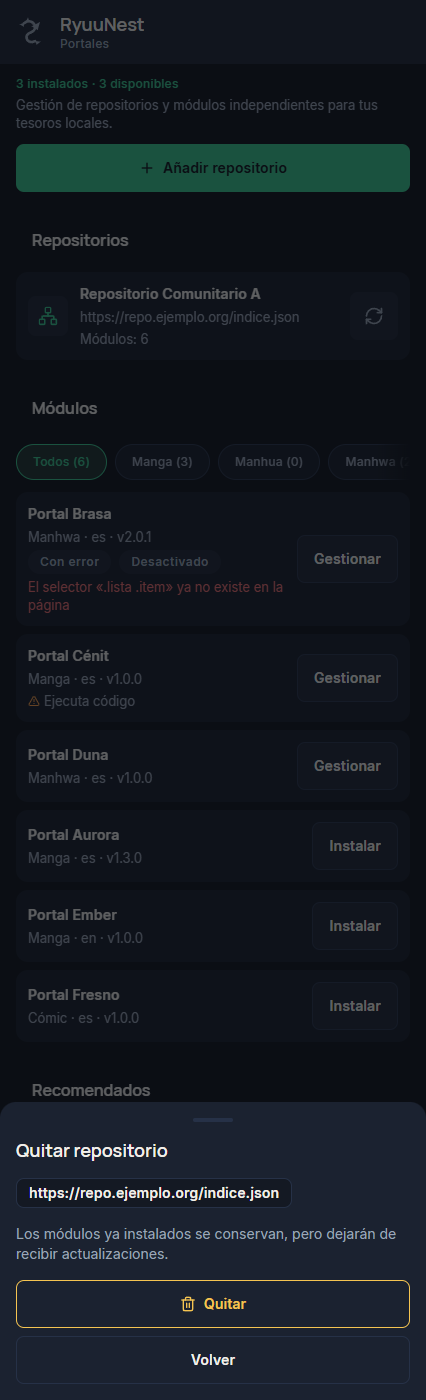
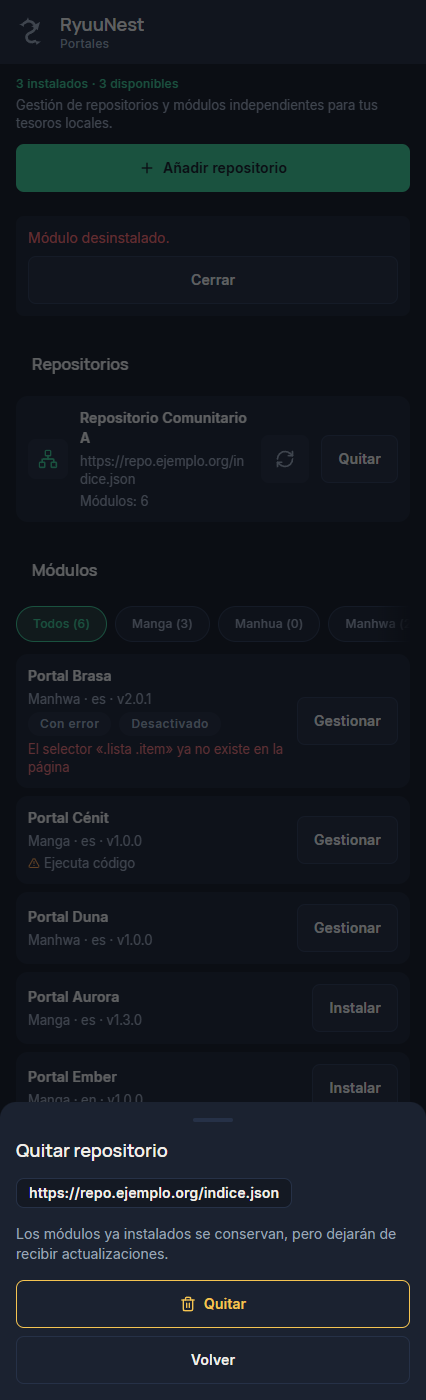
feat: «Quitar» visible en la tarjeta del repositorio y avisos de instalado/desinstalado (F42 V7, V8)
Claude-Session: https://claude.ai/code/session_01KcBhPR6TFzKDrKy9xTQwx5

diff --git a/apps/mobile/src/components/RepoCard.tsx b/apps/mobile/src/components/RepoCard.tsx
@@ -1,3 +1,4 @@
+import Button from "./Button";
 import FocusPressable from "./FocusPressable";
 import { StyleSheet, Text, View } from "react-native";
 import { dragonNightColors, spacing, typography } from "@ryuunest/ui-tokens";
@@ -9,7 +10,7 @@ import { textStyle } from "./textStyle";
 /**
  * F16 — tarjeta de repositorio (RF-3): icono, nombre, URL y botón de
  * sincronizar. Plana, sin brillos (V11). Los textos llegan por props (F10).
- * `onPress` abre la acción de quitar; sincronizar es el botón de la derecha.
+ * V7: «Quitar» es un botón visible en la tarjeta (`onRemove`); sincronizar, el icono.
  */
 
 const colors = dragonNightColors;
@@ -22,8 +23,11 @@ export interface RepoCardProps {
   syncLabel: string;
   syncing?: boolean;
   onSync?: () => void;
-  onPress?: () => void;
-  accessibilityLabel?: string;
+  /** Texto visible de quitar, p. ej. «Quitar». */
+  removeLabel?: string;
+  onRemove?: () => void;
+  /** Nombre accesible de quitar, p. ej. «Quitar repositorio». */
+  removeAccessibilityLabel?: string;
 }
 
 export default function RepoCard({
@@ -33,20 +37,14 @@ export default function RepoCard({
   syncLabel,
   syncing = false,
   onSync,
-  onPress,
-  accessibilityLabel,
+  removeLabel,
+  onRemove,
+  removeAccessibilityLabel,
 }: RepoCardProps) {
   const text = repoCardTextColors();
   return (
-    // La fila no puede ser un botón: en web anidaría el botón de sincronizar
-    // (HTML inválido). El cuerpo (icono y textos) es el botón de quitar.
     <View style={[repoCardStyle(), styles.card]}>
-      <FocusPressable
-        accessibilityRole="button"
-        accessibilityLabel={accessibilityLabel ?? name}
-        onPress={onPress}
-        style={styles.body}
-      >
+      <View style={styles.body}>
         <View style={styles.icon}>
           <Network size={spacing.md + spacing.xxs} color={colors.accent} />
         </View>
@@ -57,7 +55,7 @@ export default function RepoCard({
           <Text style={[styles.url, { color: text.url }]}>{url}</Text>
           {meta ? <Text style={[styles.url, { color: text.url }]}>{meta}</Text> : null}
         </View>
-      </FocusPressable>
+      </View>
       <FocusPressable
         accessibilityRole="button"
         accessibilityLabel={syncLabel}
@@ -68,6 +66,14 @@ export default function RepoCard({
       >
         <RefreshCw size={spacing.md + spacing.xxs} color={colors.textSecondary} />
       </FocusPressable>
+      {removeLabel !== undefined ? (
+        <Button
+          variant="secondary"
+          label={removeLabel}
+          accessibilityLabel={removeAccessibilityLabel}
+          onPress={onRemove}
+        />
+      ) : null}
     </View>
   );
 }

diff --git a/apps/mobile/src/screens/sources/sourcesController.ts b/apps/mobile/src/screens/sources/sourcesController.ts
@@ -64,12 +64,14 @@ export function createSourcesController(deps: SourcesControllerDeps): SourcesCon
     submit: SourcesFlowAction,
     action: Parameters<typeof reportSourcesError>[1] = "install",
     context?: Record<string, unknown>,
+    success?: string,
   ): Promise<void> {
     dispatch(submit);
     try {
       await work();
       await reload();
       dispatch({ type: "done" });
+      if (success !== undefined) notify(success);
     } catch (error) {
       reportSourcesError(reporter, action, error, context);
       dispatch({ type: "fail", message: messageOf(error) });
@@ -110,6 +112,7 @@ export function createSourcesController(deps: SourcesControllerDeps): SourcesCon
         { type: "submit-install" },
         "install",
         { moduleId: preview.id, repoId: preview.repoId },
+        t("sources.install.done", { name: preview.name }),
       );
     },
 
@@ -159,9 +162,13 @@ export function createSourcesController(deps: SourcesControllerDeps): SourcesCon
       const flow = getFlow();
       if (flow.sheet !== "uninstall") return;
       const { moduleId } = flow;
-      await runSheet(() => service.uninstall(moduleId), { type: "submit-uninstall" }, "uninstall", {
-        moduleId,
-      });
+      await runSheet(
+        () => service.uninstall(moduleId),
+        { type: "submit-uninstall" },
+        "uninstall",
+        { moduleId },
+        t("sources.uninstall.done"),
+      );
     },
 
     async syncRepo(repoId) {

diff --git a/apps/mobile/src/gallery/GalleryScreen.tsx b/apps/mobile/src/gallery/GalleryScreen.tsx
@@ -547,12 +547,16 @@ export default function GalleryScreen() {
             url={SAMPLE_SOURCES_DATA.repos[0]?.url ?? ""}
             meta={t("sources.repo.modules", { count: 6 })}
             syncLabel={t("sources.repo.sync")}
+            removeLabel={t("sources.removeRepo.submit")}
+            removeAccessibilityLabel={t("sources.repo.remove")}
           />
           <RepoCard
             name={SAMPLE_SOURCES_DATA.repos[0]?.name ?? ""}
             url={SAMPLE_SOURCES_DATA.repos[0]?.url ?? ""}
             syncLabel={t("sources.repo.sync")}
             syncing
+            removeLabel={t("sources.removeRepo.submit")}
+            removeAccessibilityLabel={t("sources.repo.remove")}
           />
         </View>
 

diff --git a/apps/mobile/src/screens/sources/SourcesScreen.tsx b/apps/mobile/src/screens/sources/SourcesScreen.tsx
@@ -189,9 +189,10 @@ export default function SourcesScreen({
                     url={repo.url}
                     meta={t("sources.repo.modules", { count: repo.moduleCount })}
                     syncLabel={t("sources.repo.sync")}
-                    accessibilityLabel={t("sources.repo.remove")}
+                    removeLabel={t("sources.removeRepo.submit")}
+                    removeAccessibilityLabel={t("sources.repo.remove")}
                     onSync={() => void controller?.syncRepo(repo.id)}
-                    onPress={() => controller?.askRemoveRepo(repo.id)}
+                    onRemove={() => controller?.askRemoveRepo(repo.id)}
                   />
                 ))}
               </View>

diff --git a/apps/mobile/tests/screens/sourcesController.test.ts b/apps/mobile/tests/screens/sourcesController.test.ts
@@ -114,6 +114,7 @@ describe("instalar", () => {
     expect((await app.service.load()).modules.find((m) => m.id === "portal-duna")?.status).toBe(
       "installed",
     );
+    expect(app.notices.at(-1)).toMatch(/instalado/);
   });
 
   it("un script no se instala con la confirmación normal y la hoja muestra el motivo", async () => {
@@ -207,6 +208,7 @@ describe("gestionar, actualizar y desinstalar", () => {
     expect((await app.service.load()).modules.find((m) => m.id === "portal-aurora")?.status).toBe(
       "available",
     );
+    expect(app.notices.at(-1)).toBe("Módulo desinstalado.");
   });
 });
 
